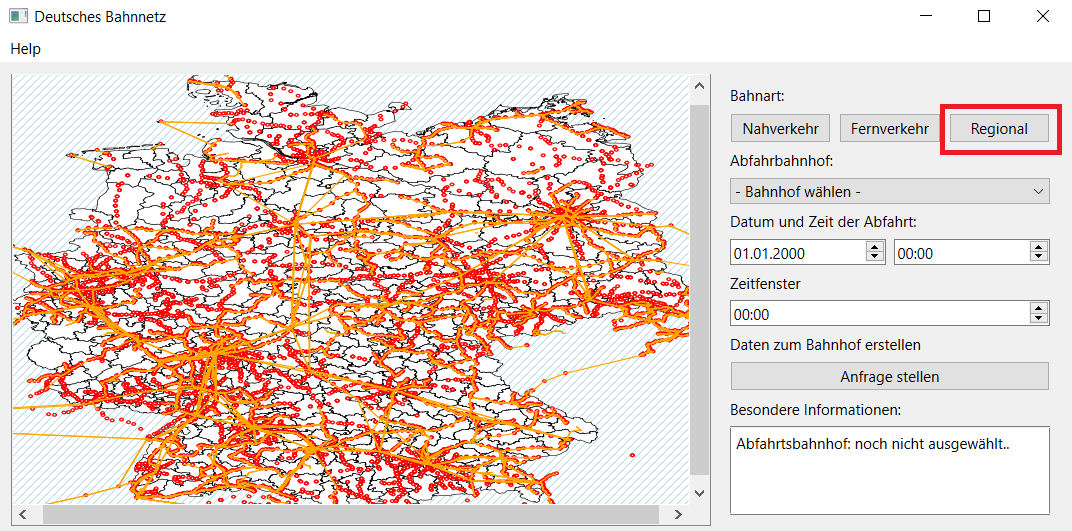
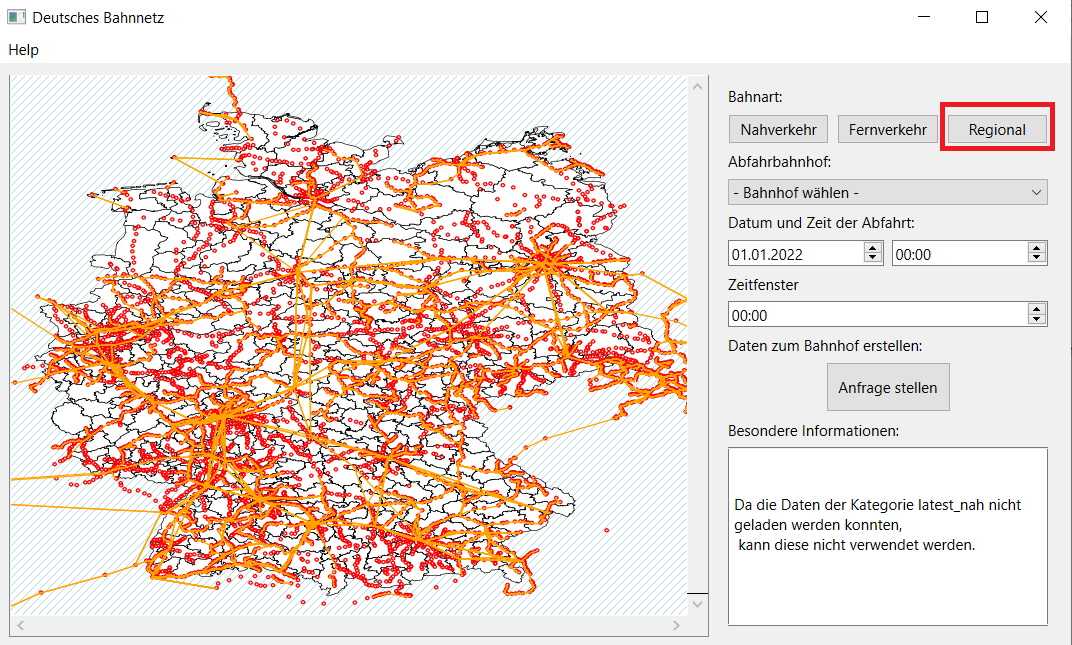
Neue Files

diff --git a/Data/README.md b/Data/README.md
@@ -1,5 +1,7 @@
 # README <br/>
 <br/>
+Please read this window in fullscreen to avoid graphical errors.<br/>
+<br/>
 **Date:** 13. May 2022 <br/>
 
 **Authors:** Fabian Kessener, Tobias Boeer, Timon Fass <br/>
@@ -15,8 +17,11 @@ Before use you need to install following modules: <br/>
  - PySide6<br/>
  - numpy<br/>
  - markdown<br/>
-To start the program you need to execute the file XXXX.py.
-Data preparation can be done with XXXX.py but this takes a long time.<br/>
+To start the program you need to execute the file start_program.py.<br/>
+*Keep in mind:* If you delete one of the directories with 'latest' at the beginning,
+the programm is able to calculate them again. But especially in the case of the 'Nahverkehr'
+data this can take a very long time (around 6 hours). To trigger the calculation you need to
+start the program and click one of the three buttons (Nahverkehr, Fernverkehr, Regional). <br/>
 <br/>
 **Using the Program** <br/>
 
@@ -43,14 +48,15 @@ or regional distance ("Regional") train stations by clicking the buttons. The
 map and the dropdown menu below will change and show the associated stations.<br/>
 
 *Important:* Keep in mind, it will take a long time to load the local 
-transport data and the program might hang up for a couple of seconds. If you
-keep it running, it will do its work, but the navigation will be slow.<br/>
+transport data . If the data is missing it will calculate it, but this does
+take a long time and your CPU is fully occupied.<br/>
 
 If you select a type of trains by using the three buttons on top, you can
 choose the starting station ('Abfahrbahnhof') in the dropdown menu below.
-When using this menu you can type the first letter of your wanted station
-to jump to this point of the list. The selected items will be shown in the
-small information window below.<br/>  
+When using this menu you can type letters of your wanted station
+to jump to this point of the list. You can also choose a date a time and a time span.
+After clicking 'Anfrage stellen' you get the wanted information in the table below. The time span is the time
+in hours before and after the 'Zeit der Abfahrt'. Only these trains will be shown. <br/>  
 <br/>
 **Special Features**<br/>
 
@@ -64,8 +70,9 @@ List of special features: <br/>
  - Dropdown Menu with train stations<br/>
 	Allows to select the wanted station from a list instead of clicking it.<br/>
 	Also reacts to typing, to make the search easier.<br/>
- - Overview window<br/>
-	Shows every selected item in a small overview. Can be cleared, by using the button 'Löschen'<br/>
+ - Overview Window<br/>
+	Shows messages for the user. For example if data is missing<br/>
+ - Tutorial<br/>
+	An image Tutorial in the Menubar will show you the usage of this program a little bit more detailed.
 
 <br/>
-Änderungshistorie?

diff --git a/Data/TUTORIAL.md b/Data/TUTORIAL.md
@@ -28,6 +28,10 @@ The search is easier if you type the searched station in. In this case we will c
 
 ![ScreenShot](/////Dropdown.png)<br/>
 <br/>
+You can also choose a date and a time. This will limit your search results. To this week day, time and time span
+around the time, by putting an hour number in the field 'Zeitfenster'. <br/>
+![ScreenShot](/////example.png)<br/>
+<br/>
 ### Get information<br/> 
 The information of these trains will be shown in the table below the map if you click the button 'Anfrage stellen'.<br/>
 
@@ -38,5 +42,7 @@ The menu bar on the top left corner allows you to view the 'About/Licence' menu,
 
 ![ScreenShot](/////Menubar.png)<br/>
 <br/>
+
+# Thank you for Reading our Tutorial!
 
 
